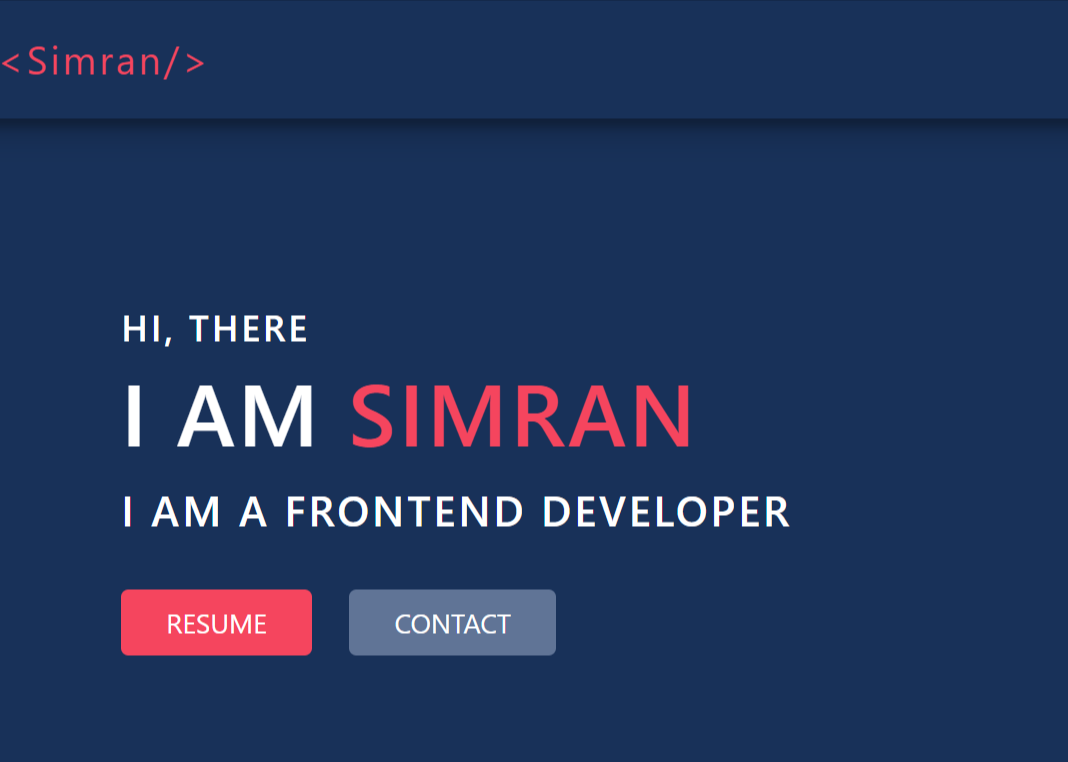
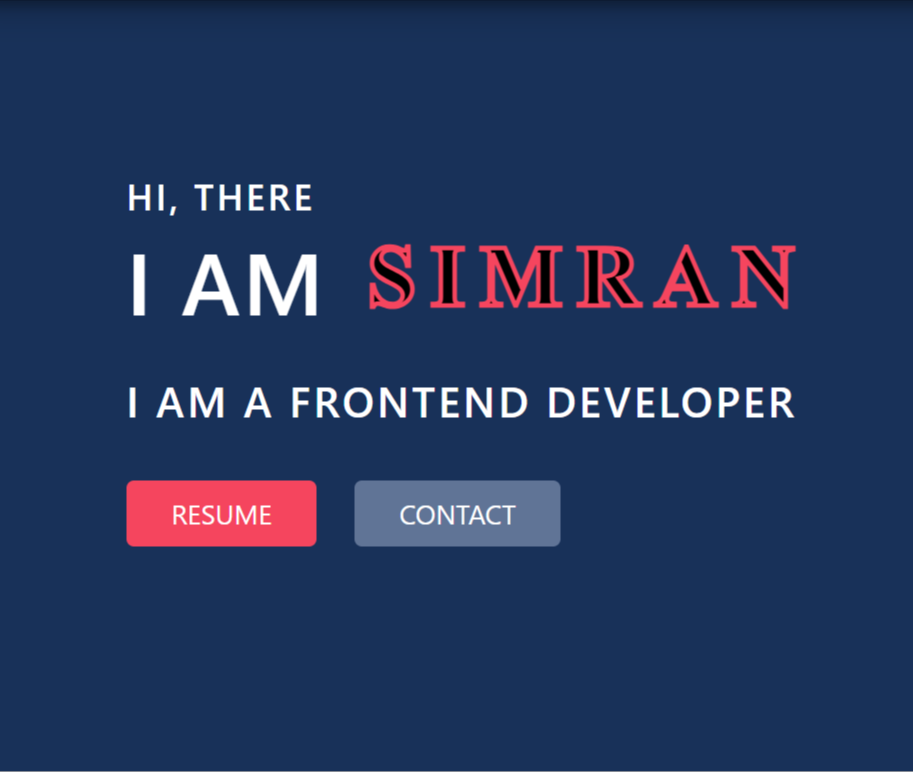
Changed project section

diff --git a/src/components/Prpject.jsx b/src/components/Prpject.jsx
@@ -2,6 +2,7 @@ import { Link } from "react-router-dom";
 import img1 from "../assets/feane.png";
 import img2 from "../assets/ecommerce.jpg";
 import img3 from "../assets/port.png";
+import img4 from "../assets/todo.png";
 import { Navigation, FreeMode, } from 'swiper/modules';
 import { Swiper, SwiperSlide } from 'swiper/react';
 import 'swiper/css';
@@ -74,10 +75,10 @@ const Prpject = () => {
         <SwiperSlide>
           <div className="project-card">
         <Link >
-          <img src={img1} alt="" />
+          <img src={img4} alt="" />
         </Link>
         <div className="project-desp">
-          <Link to='https://github.com/SimranThakur07/Food-Delivery-App' target="_blank">Food Delivery <i className="fa-solid fa-arrow-up-right-from-square"></i></Link>
+          <Link to='https://github.com/SimranThakur07/todo-app-main' target="_blank">Todo App <i className="fa-solid fa-arrow-up-right-from-square"></i></Link>
         </div>
         </div>
         </SwiperSlide>

diff --git a/src/components/Navbar.jsx b/src/components/Navbar.jsx
@@ -20,6 +20,9 @@ const Navbar = () => {
         <li className="nav-item">
           <Link className="nav-link px-3" to="#about">About</Link>
         </li>
+        <li className="nav-item">
+          <Link className="nav-link px-3" to="#project">Project</Link>
+        </li>
         {/* <li className="nav-item">
           <a className="nav-link px-3" href="#experience">Experience</a>
         </li> */}
@@ -29,9 +32,7 @@ const Navbar = () => {
         <li className="nav-item">
           <Link className="nav-link px-3" to="#skill">Skills</Link>
         </li>
-        <li className="nav-item">
-          <Link className="nav-link px-3" to="#project">Project</Link>
-        </li>
+       
         <li className="nav-item">
           <Link className="nav-link px-3" to="#contact">Contact</Link>
         </li>

diff --git a/src/App.css b/src/App.css
@@ -657,3 +657,31 @@ a{
     padding: 8px 0;
     border-radius: 0 0 10px 10px;
   }
+
+  svg text {
+    font-family: Lora;
+    letter-spacing: 10px;
+    stroke: var(--primaryColor2);
+    font-size: 58px;
+    font-weight: 700;
+    stroke-width: 3;
+    animation: textAnimate 5s infinite alternate;
+    
+  }
+  
+  @keyframes textAnimate {
+    0% {
+      stroke-dasharray: 0 50%;
+      stroke-dashoffset:  20%;
+      fill:hsl(189, 68%, 75%)
+  
+    }
+    
+    100% {
+      stroke-dasharray: 50% 0;
+      stroke-dashoffstet: -20%;
+      fill: hsla(189, 68%, 75%,0%)
+    }
+    
+  }
+  

diff --git a/src/components/Slider.jsx b/src/components/Slider.jsx
@@ -8,7 +8,13 @@ const Slider = () => {
       <div className="card flex-wrap" id="home">
   <div className="card-body banner">
    <div className="description">
-    <h1><span>Hi, there</span> <br /> I am <span>Simran</span></h1>
+    <h1><span>Hi, there</span> <br /> I am 
+  <svg width="350px" height="80px">
+ <text x="50%" y="60%"  textAnchor="middle"  >
+   Simran
+ </text>
+ </svg>
+    </h1>
     <h3>I am a frontend developer</h3>
     <div className="buttons">
       <a href={pdf} download>Resume</a>
